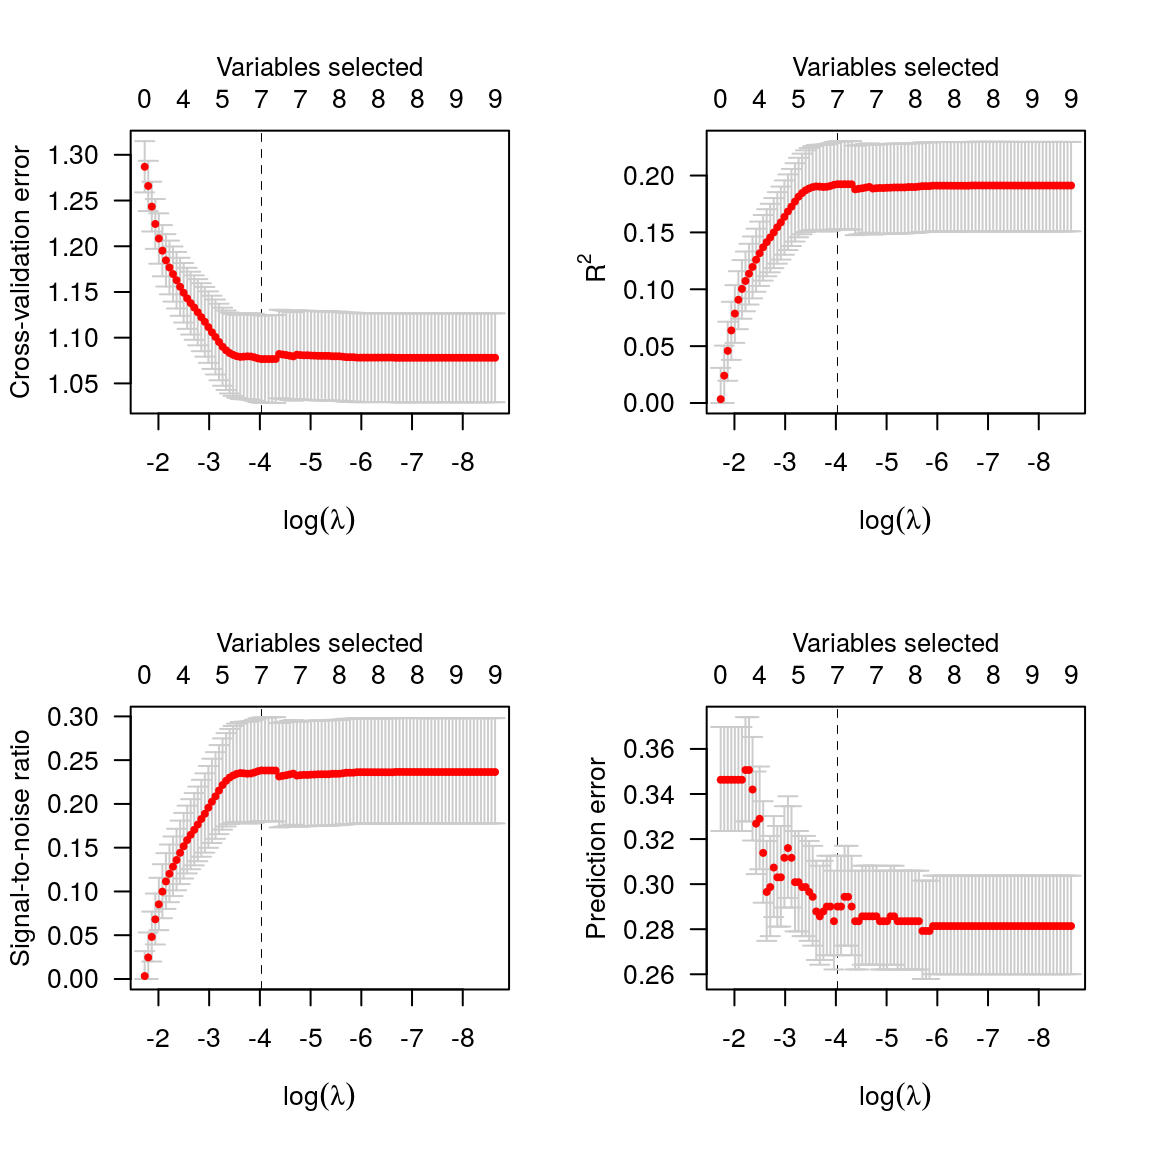
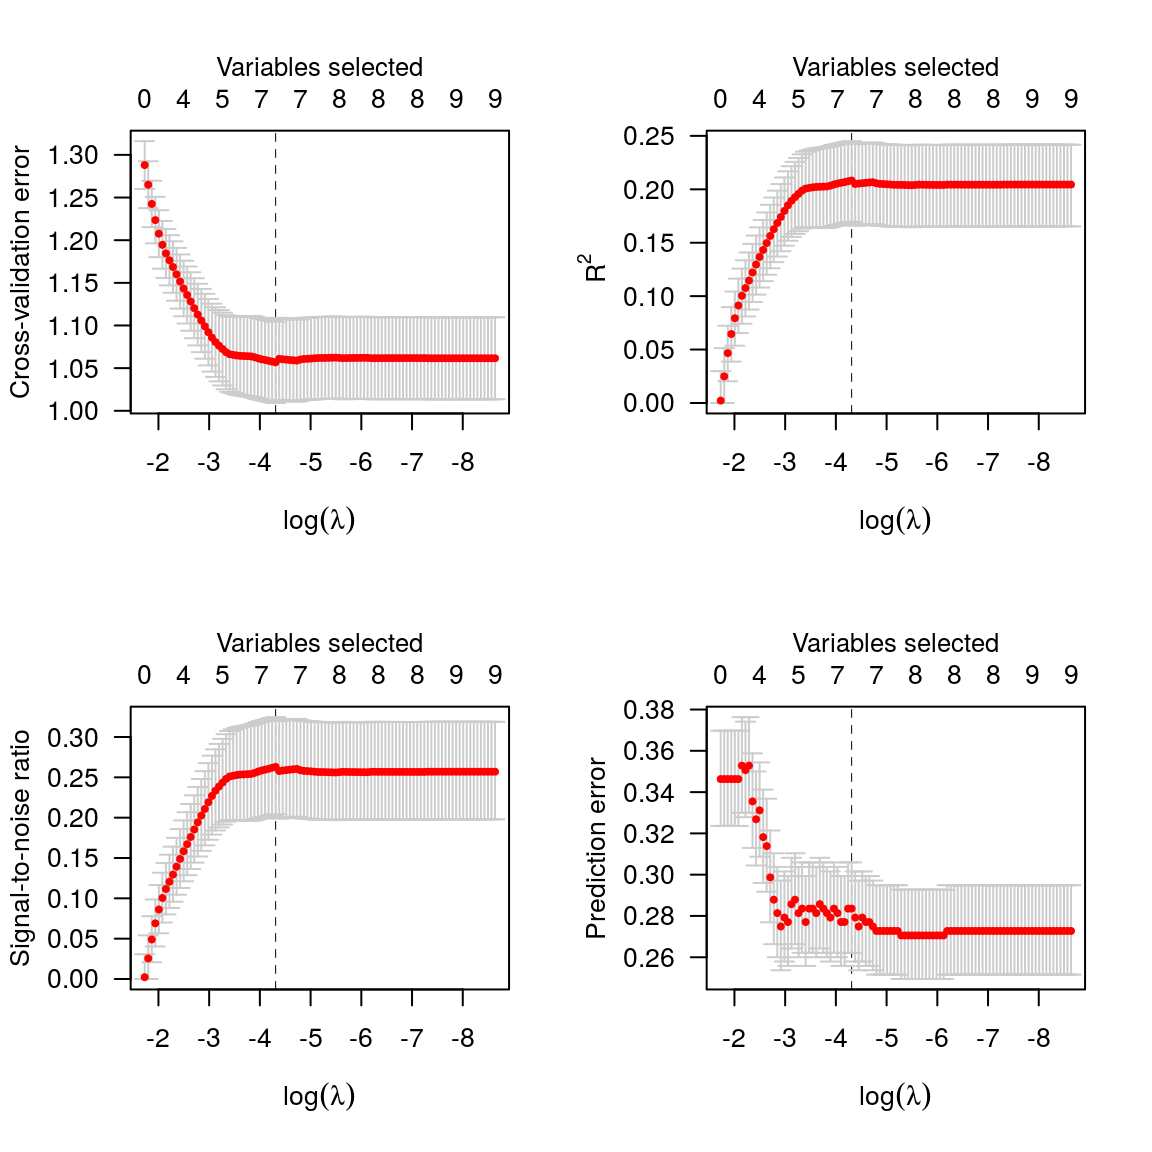
Documentation: Changing to consistently emphasize deviance

diff --git a/docs/articles/web/models.html b/docs/articles/web/models.html
@@ -99,13 +99,13 @@
     
 <p><code>ncvreg</code> fits models that fall into the penalized likelihood framework. Rather than estimating <span class="math inline">\(\bb\)</span> by maximizing the likelihood, in this framework we estimate <span class="math inline">\(\bb\)</span> by minimizing the objective function <span class="math display">\[
 Q(\bb|\X, \y) = \frac{1}{n}L(\bb|\X,\y) + P_\lam(\bb),
-\]</span> where <span class="math inline">\(L(\bb|\X,\y)\)</span> is the loss (typically, <span class="math inline">\(-2\)</span> times the log-likelihood), <span class="math inline">\(P_\lam(\bb)\)</span> is the penalty, and <span class="math inline">\(\lam\)</span> is a regularization parameter that controls the tradeoff between the two components. This article describes the different loss models available in <code>ncvreg</code>; see <a href="penalties.html">penalties</a> for more information on the different penalties available.</p>
+\]</span> where the loss function <span class="math inline">\(L(\bb|\X,\y)\)</span> is the deviance (<span class="math inline">\(-2\)</span> times the log-likelihood), <span class="math inline">\(P_\lam(\bb)\)</span> is the penalty, and <span class="math inline">\(\lam\)</span> is a regularization parameter that controls the tradeoff between the two components. This article describes the different loss models available in <code>ncvreg</code>; see <a href="penalties.html">penalties</a> for more information on the different penalties available.</p>
 <div id="gaussian-linear-regression" class="section level1">
 <h1 class="hasAnchor">
 <a href="#gaussian-linear-regression" class="anchor"></a>Gaussian (linear regression)</h1>
 <p>In linear regression, the loss function is simply the squared error loss: <span class="math display">\[
-L(\bb|\X,\y) = \norm{\y-\X\bb}_2^2
-\]</span> this loss is proportional to <span class="math inline">\(-2 \times\)</span> log-likelihood if the outcome <span class="math inline">\(\y\)</span> follows a normal distribution with constant variance and mean given by <span class="math inline">\(\X\bb\)</span>.</p>
+L(\bb|\X,\y) = \norm{\y-\X\bb}_2^2;
+\]</span> this loss is proportional to the deviance if the outcome <span class="math inline">\(\y\)</span> follows a normal distribution with constant variance and mean given by <span class="math inline">\(\X\bb\)</span>.</p>
 <p>In the <code>Prostate</code> data packaged with <code>ncvreg</code>, the response is the prostate specific antigen (PSA), measured on the log scale, and follows an approximate normal distribution; see <code><a href="../../reference/Prostate.html">?Prostate</a></code> for more information on the data set. Loading this data set into R,</p>
 <div class="sourceCode" id="cb1"><pre class="sourceCode r"><code class="sourceCode r"><a class="sourceLine" id="cb1-1" data-line-number="1"><span class="kw">data</span>(Prostate)</a>
 <a class="sourceLine" id="cb1-2" data-line-number="2">X &lt;-<span class="st"> </span>Prostate<span class="op">$</span>X</a>
@@ -155,13 +155,13 @@ L(\bb|\X,\y) = \norm{\y-\X\bb}_2^2
 <p>Calling <code>summary</code> on a <code>cv.ncvreg</code> object will provide a summary of these quantities at the value which minimizes <span class="math inline">\(\CVE\)</span>:</p>
 <div class="sourceCode" id="cb7"><pre class="sourceCode r"><code class="sourceCode r"><a class="sourceLine" id="cb7-1" data-line-number="1"><span class="kw">summary</span>(cvfit)</a>
 <a class="sourceLine" id="cb7-2" data-line-number="2"><span class="co"># MCP-penalized linear regression with n=97, p=8</span></a>
-<a class="sourceLine" id="cb7-3" data-line-number="3"><span class="co"># At minimum cross-validation error (lambda=0.0843):</span></a>
+<a class="sourceLine" id="cb7-3" data-line-number="3"><span class="co"># At minimum cross-validation error (lambda=0.0060):</span></a>
 <a class="sourceLine" id="cb7-4" data-line-number="4"><span class="co"># -------------------------------------------------</span></a>
-<a class="sourceLine" id="cb7-5" data-line-number="5"><span class="co">#   Nonzero coefficients: 4</span></a>
-<a class="sourceLine" id="cb7-6" data-line-number="6"><span class="co">#   Cross-validation error (deviance): 0.52</span></a>
-<a class="sourceLine" id="cb7-7" data-line-number="7"><span class="co">#   R-squared: 0.61</span></a>
-<a class="sourceLine" id="cb7-8" data-line-number="8"><span class="co">#   Signal-to-noise ratio: 1.54</span></a>
-<a class="sourceLine" id="cb7-9" data-line-number="9"><span class="co">#   Scale estimate (sigma): 0.720</span></a></code></pre></div>
+<a class="sourceLine" id="cb7-5" data-line-number="5"><span class="co">#   Nonzero coefficients: 8</span></a>
+<a class="sourceLine" id="cb7-6" data-line-number="6"><span class="co">#   Cross-validation error (deviance): 0.56</span></a>
+<a class="sourceLine" id="cb7-7" data-line-number="7"><span class="co">#   R-squared: 0.57</span></a>
+<a class="sourceLine" id="cb7-8" data-line-number="8"><span class="co">#   Signal-to-noise ratio: 1.35</span></a>
+<a class="sourceLine" id="cb7-9" data-line-number="9"><span class="co">#   Scale estimate (sigma): 0.749</span></a></code></pre></div>
 <p>To access the elements of the fit, <code>coef</code> and <code>predict</code> methods are provided. For example, <code>coef(fit, lambda=0.02)</code> returns the estimated coefficients at <span class="math inline">\(\lambda\)</span>=0.02, while <code>coef(cvfit)</code> returns the estimated coefficients at the value of <span class="math inline">\(\lam\)</span> minimizing CVE.</p>
 </div>
 <div id="binomial-logistic-regression" class="section level1">
@@ -169,7 +169,7 @@ L(\bb|\X,\y) = \norm{\y-\X\bb}_2^2
 <a href="#binomial-logistic-regression" class="anchor"></a>Binomial (logistic regression)</h1>
 <p>In logistic regression, the loss function is: <span class="math display">\[
 L(\bb|\X,\y) = -2\sum_{i:y_i=1}\log\ph_i - 2\sum_{i:y_i=0}\log(1-\ph_i);
-\]</span> this loss is <span class="math inline">\(-2 \times\)</span> log-likelihood if the outcome <span class="math inline">\(\y\)</span> follows a binomial distribution with probabilities given by: <span class="math display">\[
+\]</span> this loss is the deviance for a binomial distribution with probabilities <span class="math inline">\(P(Y_i=1)=\ph_i\)</span> given by: <span class="math display">\[
 \ph_i = \frac{\exp(\eta_i)}{1+\eta_i},
 \]</span> where <span class="math inline">\(\be = \X\bb\)</span> denotes the linear predictors. The <code>Heart</code> data provides an example of data that can be used with logistic regression. Loading this data set into R,</p>
 <div class="sourceCode" id="cb8"><pre class="sourceCode r"><code class="sourceCode r"><a class="sourceLine" id="cb8-1" data-line-number="1"><span class="kw">data</span>(Heart)</a>
@@ -206,7 +206,7 @@ L(\bb|\X,\y) = -2\sum_{i:y_i=1}\log\ph_i - 2\sum_{i:y_i=0}\log(1-\ph_i);
 <a href="#poisson" class="anchor"></a>Poisson</h1>
 <p>In Poisson regression, the loss function is: <span class="math display">\[
 L(\bb|\X,\y) = 2\sum_i \left\{\mh_i - y_i\log\mh_i\right\};
-\]</span> this loss is <span class="math inline">\(-2 \times\)</span> log-likelihood if the outcome <span class="math inline">\(\y\)</span> follows a Poisson distribution with rate parameter given by: <span class="math display">\[
+\]</span> this loss is the deviance for a Poisson distribution <span class="math inline">\(Y_i \sim \text{Pois}(\mh_i)\)</span> with rate parameter given by: <span class="math display">\[
 \mh_i = \exp(\eta_i).
 \]</span> To fit a penalized Poisson regression model with <code>ncvreg</code>:</p>
 <div class="sourceCode" id="cb12"><pre class="sourceCode r"><code class="sourceCode r"><a class="sourceLine" id="cb12-1" data-line-number="1">fit &lt;-<span class="st"> </span><span class="kw"><a href="../../reference/ncvreg.html">ncvreg</a></span>(X, y, <span class="dt">family=</span><span class="st">'poisson'</span>)</a></code></pre></div>
@@ -214,7 +214,7 @@ L(\bb|\X,\y) = 2\sum_i \left\{\mh_i - y_i\log\mh_i\right\};
 <div id="cox-proportional-hazards" class="section level1">
 <h1 class="hasAnchor">
 <a href="#cox-proportional-hazards" class="anchor"></a>Cox proportional hazards</h1>
-<p>The above models all fall into the category of distributions known as exponential families (hence the <code>family</code>) argument. <code>ncvreg</code> also allows users to fit Cox proportional hazards models, although these models fall outside this framework and are therefore fit using a different function, <code>ncvsurv</code>. In Cox regression, the loss function (<span class="math inline">\(-2 \times\)</span> the partial log-likelihood) is <span class="math display">\[
+<p>The above models all fall into the category of distributions known as exponential families (hence the <code>family</code>) argument. <code>ncvreg</code> also allows users to fit Cox proportional hazards models, although these models fall outside this framework and are therefore fit using a different function, <code>ncvsurv</code>. In Cox regression, the deviance is <span class="math display">\[
 L(\bb|\X,\y) = -2\sum_{j=1}^{m} d_j \eta_j + 2\sum_{j=1}^{m} d_j \log\left\{\sum_{i \in R_j} \exp(\eta_i)\right\},
 \]</span> where <span class="math inline">\(t_1 &lt; t_2 &lt; \ldots &lt; t_m\)</span> denotes an increasing list of unique failure times indexed by <span class="math inline">\(j\)</span> and <span class="math inline">\(R_j\)</span> denotes the set of observations still at risk at time <span class="math inline">\(t_j\)</span>, known as the risk set.</p>
 <p>The <code>Lung</code> data (see <code><a href="../../reference/Lung.html">?Lung</a></code> for more details) provides an example of time-to-event data that can be used with Cox regression. Loading this data set into R,</p>

diff --git a/docs/reference/ncvsurv.html b/docs/reference/ncvsurv.html
@@ -152,10 +152,10 @@
     <tr>
       <th>y</th>
       <td><p>The time-to-event outcome, as a two-column matrix or
-    <code>Surv</code> object.  The first column should be time on study (follow
-    up time); the second column should be a binary variable with 1
-    indicating that the event has occurred and 0 indicating (right)
-    censoring.</p></td>
+    <code><a href='http://www.rdocumentation.org/packages/survival/topics/Surv'>Surv</a></code> object.  The first column should be time
+      on study (follow up time); the second column should be a binary
+      variable with 1 indicating that the event has occurred and 0
+      indicating (right) censoring.</p></td>
     </tr>
     <tr>
       <th>penalty</th>
@@ -200,8 +200,8 @@
     </tr>
     <tr>
       <th>max.iter</th>
-      <td><p>Maximum number of iterations (total across entire path).
-    Default is 1000.</p></td>
+      <td><p>Maximum number of iterations (total across entire
+    path). Default is 1000.</p></td>
     </tr>
     <tr>
       <th>convex</th>
@@ -255,8 +255,8 @@
   objective function is defined to be
   $$Q(\beta|X, y) = \frac{1}{n} L(\beta|X, y) +
     P_\lambda(\beta)$$
-  where the loss function L is the -2 times the partial log-likelihood
-  from the Cox regression model.
+  where the loss function L is the deviance (-2 times the partial
+  log-likelihood) from the Cox regression mode.
   <a href='http://pbreheny.github.io/ncvreg/articles/web/models.html'>See
     here for more details</a>.</p>
 <p>Presently, ties are not handled by <code>ncvsurv</code> in a particularly
@@ -266,9 +266,9 @@
     <h2 class="hasAnchor" id="value"><a class="anchor" href="#value"></a>Value</h2>
 
     <p>An object with S3 class <code>"ncvsurv"</code> containing:</p><dl class='dl-horizontal'>
-    <dt>beta</dt><dd><p>The fitted matrix of coefficients.  The number of rows is
-      equal to the number of coefficients, and the number of columns is
-      equal to <code>nlambda</code>.</p></dd>
+    <dt>beta</dt><dd><p>The fitted matrix of coefficients.  The number of rows
+      is equal to the number of coefficients, and the number of columns
+      is equal to <code>nlambda</code>.</p></dd>
     <dt>iter</dt><dd><p>A vector of length <code>nlambda</code> containing the number
       of iterations until convergence at each value of <code>lambda</code>.</p></dd>
     <dt>lambda</dt><dd><p>The sequence of regularization parameter values in the
@@ -279,10 +279,11 @@
     <dt>alpha</dt><dd><p>Same as above.</p></dd>
     <dt>convex.min</dt><dd><p>The last index for which the objective function is
       locally convex.  The smallest value of lambda for which the
-      objective function is convex is therefore <code>lambda[convex.min]</code>,
-      with corresponding coefficients <code>beta[,convex.min]</code>.</p></dd>
-    <dt>loss</dt><dd><p>The negative partial log-likelihood of the fitted model at
-      each value of <code>lambda</code>.</p></dd>
+      objective function is convex is therefore
+      <code>lambda[convex.min]</code>, with corresponding coefficients
+      <code>beta[,convex.min]</code>.</p></dd>
+    <dt>loss</dt><dd><p>The deviance of the fitted model at each value of
+      <code>lambda</code>.</p></dd>
     <dt>penalty.factor</dt><dd><p>Same as above.</p></dd>
     <dt>n</dt><dd><p>The number of observations.</p></dd>
   </dl>

diff --git a/docs/reference/ncvreg.html b/docs/reference/ncvreg.html
@@ -203,8 +203,8 @@
     </tr>
     <tr>
       <th>max.iter</th>
-      <td><p>Maximum number of iterations (total across entire path).
-    Default is 10000.</p></td>
+      <td><p>Maximum number of iterations (total across entire
+    path). Default is 10000.</p></td>
     </tr>
     <tr>
       <th>convex</th>
@@ -258,8 +258,9 @@
   objective function is defined to be
   $$Q(\beta|X, y) = \frac{1}{n} L(\beta|X, y) +
     P_\lambda(\beta)$$
-  where the loss function L is -2 times the log likelihood for the
-  specified outcome distribution (gaussian/binomial/poisson).
+  where the loss function L is the deviance (-2 times the log
+  likelihood) for the specified outcome distribution
+  (gaussian/binomial/poisson).
   <a href='http://pbreheny.github.io/ncvreg/articles/web/models.html'>See
     here for more details</a>.</p>  
 <p>This algorithm is stable, very efficient, and generally converges
@@ -283,12 +284,12 @@
     <dt>alpha</dt><dd><p>Same as above.</p></dd>
     <dt>convex.min</dt><dd><p>The last index for which the objective function is
       locally convex.  The smallest value of lambda for which the
-      objective function is convex is therefore <code>lambda[convex.min]</code>,
-      with corresponding coefficients <code>beta[,convex.min]</code>.</p></dd>
-    <dt>loss</dt><dd><p>A vector containing either the residual sum of squares
-      (<code>"gaussian"</code>) or negative log-likelihood (<code>"binomial"</code>
-      and <code>"poisson"</code>) of the fitted model at each value of
-      <code>lambda</code>.</p></dd>
+      objective function is convex is therefore
+      <code>lambda[convex.min]</code>, with corresponding coefficients
+      <code>beta[,convex.min]</code>.</p></dd> 
+    <dt>loss</dt><dd><p>A vector containing the deviance (i.e., the loss) at
+      each value of <code>lambda</code>.  Note that for <code>gaussian</code>
+      models, the loss is simply the residual sum of squares.</p></dd>
     <dt>penalty.factor</dt><dd><p>Same as above.</p></dd>
     <dt>n</dt><dd><p>Sample size.</p></dd>
   </dl>

diff --git a/docs/news/index.html b/docs/news/index.html
@@ -128,10 +128,11 @@
 <ul>
 <li>Change: returnX now turned on by default if X &lt; 100 Mb (used to be 10 Mb)</li>
 <li>Change: summary.ncvreg now based solely on local mfdr</li>
+<li>Change: Loss functions now consistently defined as deviance for all types of models</li>
+<li>Change: R^2 now consistently uses the Cox-Snell definition for all types of models</li>
 <li>Documentation: Lots of updates</li>
 <li>Documentation: vignette now html (used to be pdf)</li>
 <li>Documentation: pkgdown website</li>
-<li>Fixed: R^2 for models other than linear regression now uses Cox-Snell definition consistently throughout package</li>
 </ul>
 </div>
     <div id="ncvreg-3-10-0-2018-04-17" class="section level1">

diff --git a/NEWS.md b/NEWS.md
@@ -1,11 +1,13 @@
 # ncvreg 3.11-0 (2018-08-30)
   * Change: returnX now turned on by default if X < 100 Mb (used to be 10 Mb)
   * Change: summary.ncvreg now based solely on local mfdr
+  * Change: Loss functions now consistently defined as deviance for all types
+    of models
+  * Change: R^2 now consistently uses the Cox-Snell definition for all types
+    of models
   * Documentation: Lots of updates
   * Documentation: vignette now html (used to be pdf)
   * Documentation: pkgdown website
-  * Fixed: R^2 for models other than linear regression now uses Cox-Snell
-    definition consistently throughout package
 
 # ncvreg 3.10-0 (2018-04-17)
   * New: summary.ncvreg and summary.ncvsurv now report tables of inference for
